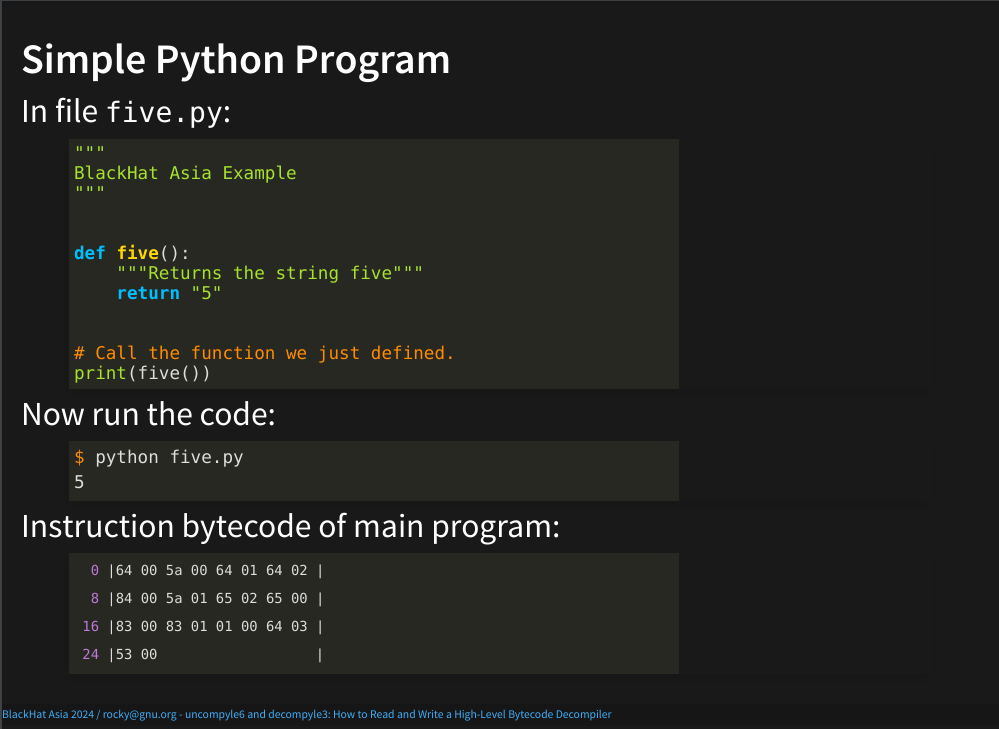
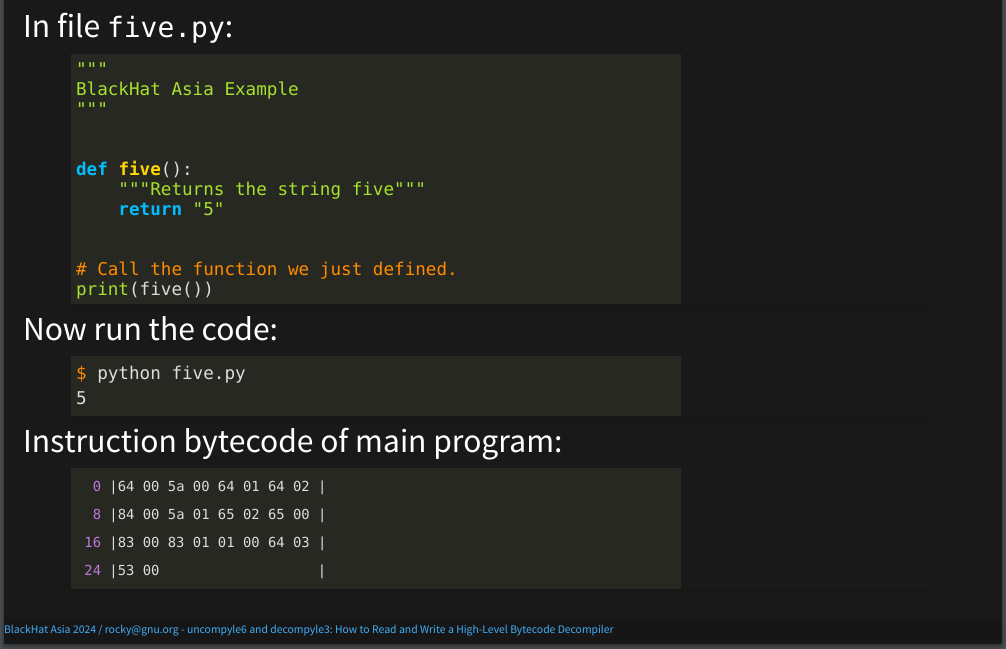
Remove more titles on slide images

diff --git a/all-notes-print.html b/all-notes-print.html
@@ -65,7 +65,8 @@
      <li><a href="#decompilation">Introduction to Python Decompilation</a></li>
      <ol>
        <li><a href="#simple-python-program">Simple Python Program</a></li>
-       <li><a href="#running-bytecode">Running Python Bytecode</a></li>
+       <li><a href="#running-bytecode">Byte-Compiling and Running
+       Python Bytecode</a></li>
        <li><a href="#decompilation-example">Python Bytecode Decompilation Example</a></li>
        <li><a href="#source-differences">Source Code Differences</a></li>
      </ol>
@@ -254,6 +255,7 @@
 
     <!--- 020-background.html #/2 -->
     <h1 id="background">Background</h1>
+    <img alt="slide-2-0-3" src="slide-images/slide-2-0-3.png"/>
     <p>
       High-level bytecode is <em>very</em> attractive for malware
       writers because it is portable, compact, and impervious to
@@ -347,7 +349,7 @@
     <img alt="slide-2-2-0"
     src="slide-images/slide-2-2-0.png"/>
     <p>
-      Both are about a decade old. Neither is completelydevoted to
+      Both are about a decade old. Neither is completely devoted to
       decompilers. Neither has gone through more than one
       edition. Does this mean that nothing has changed to the
       compilers and bytecode that are covered by these books in the
@@ -533,7 +535,7 @@
 
     <hr/>
     <!--- 050-compile-and-run-bytecode.html #/5 -->
-    <h2 id="running-bytecode">Running Python Bytecode</h2>
+    <h2 id="running-bytecode">Byte-Compiling and Running Python Bytecode</h2>
     <p>
       As I said, the interpreter doesn’t run the source text directly,
       but instead runs bytecode. One implication of this, is that the
